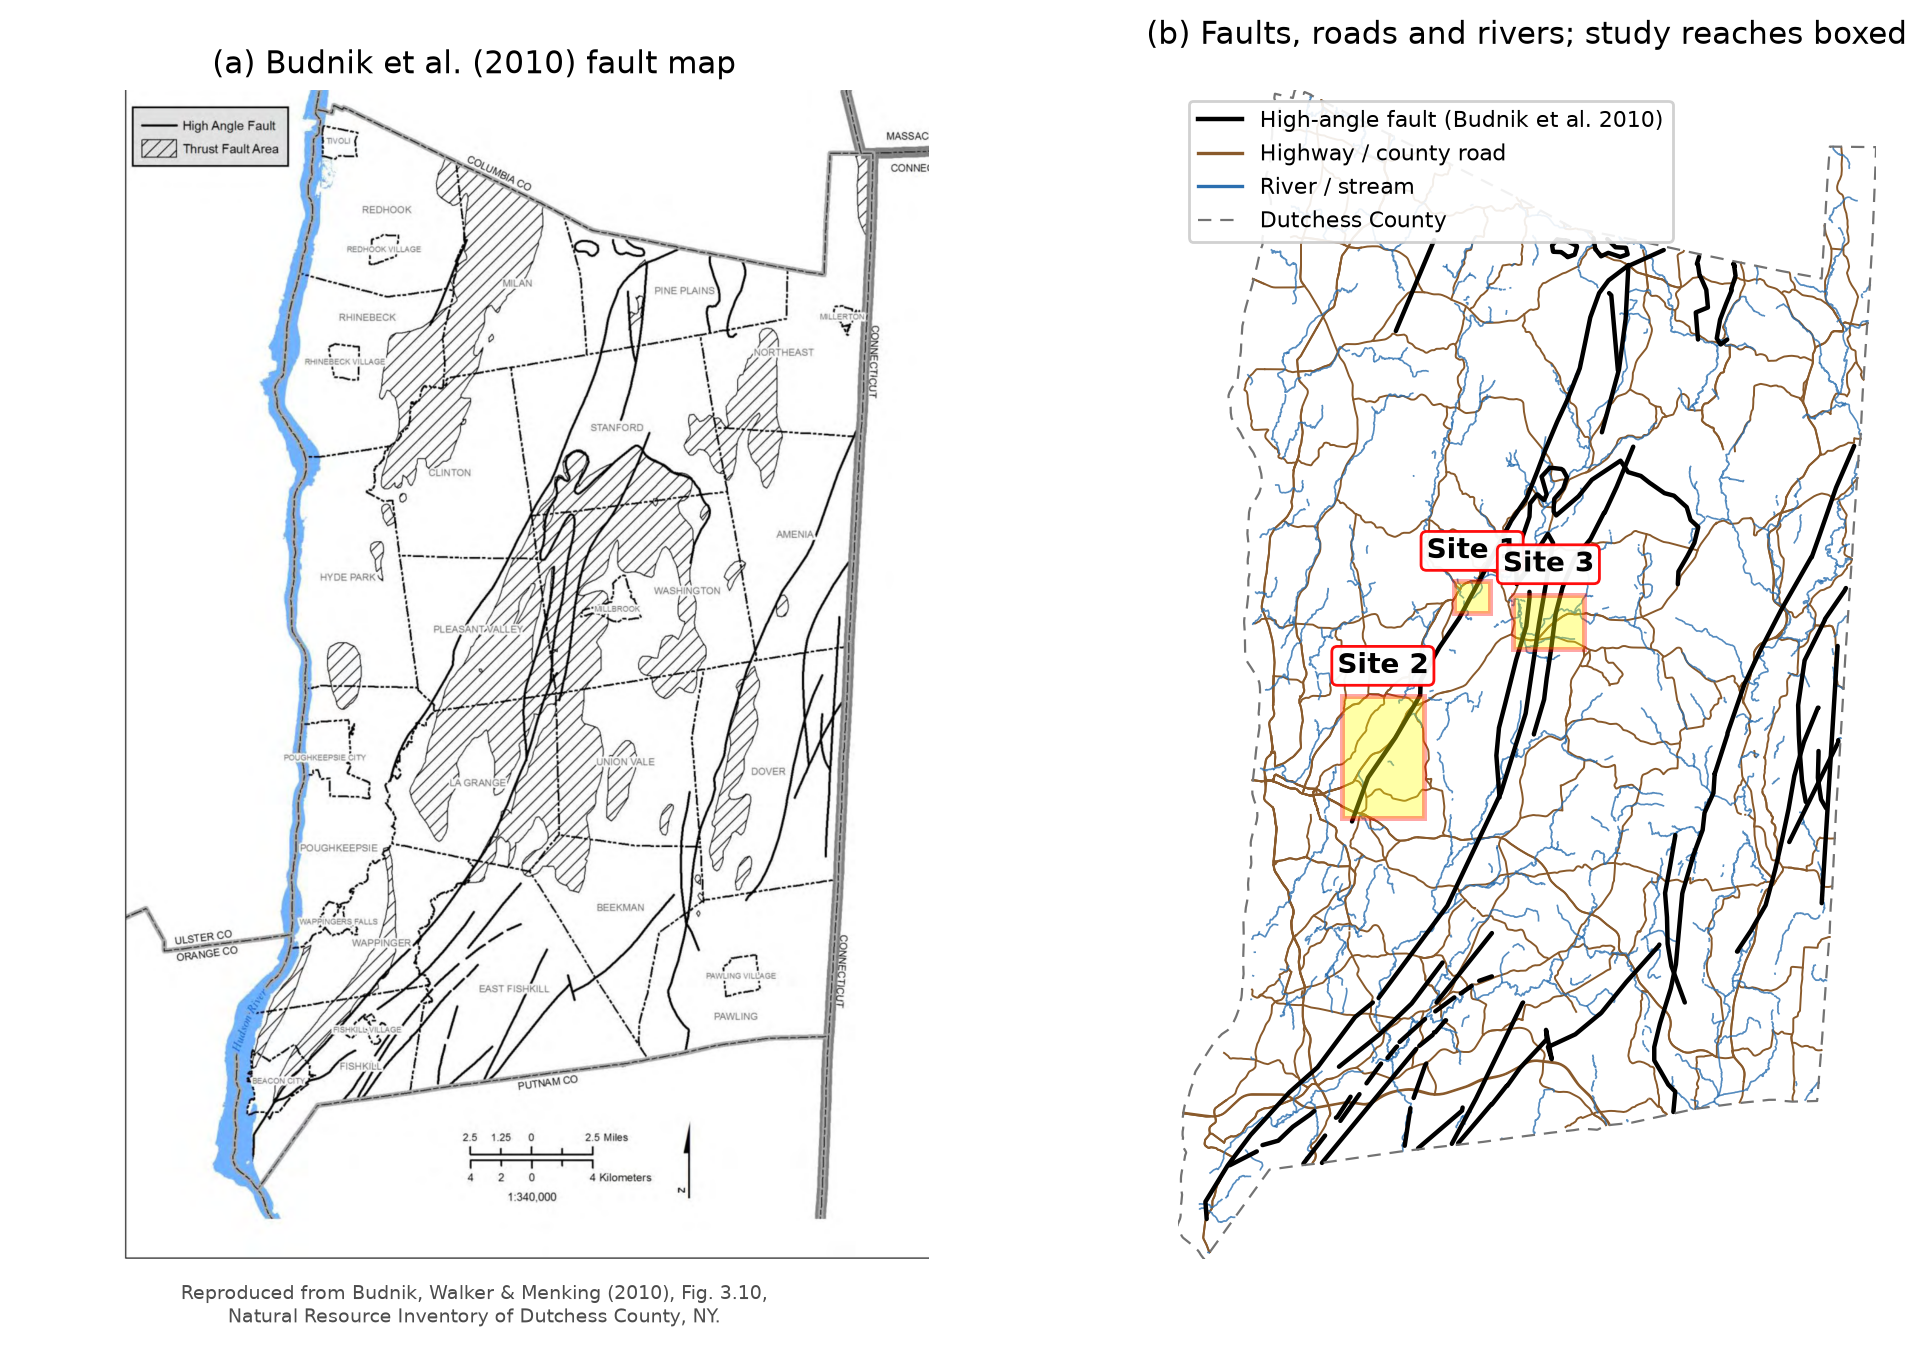
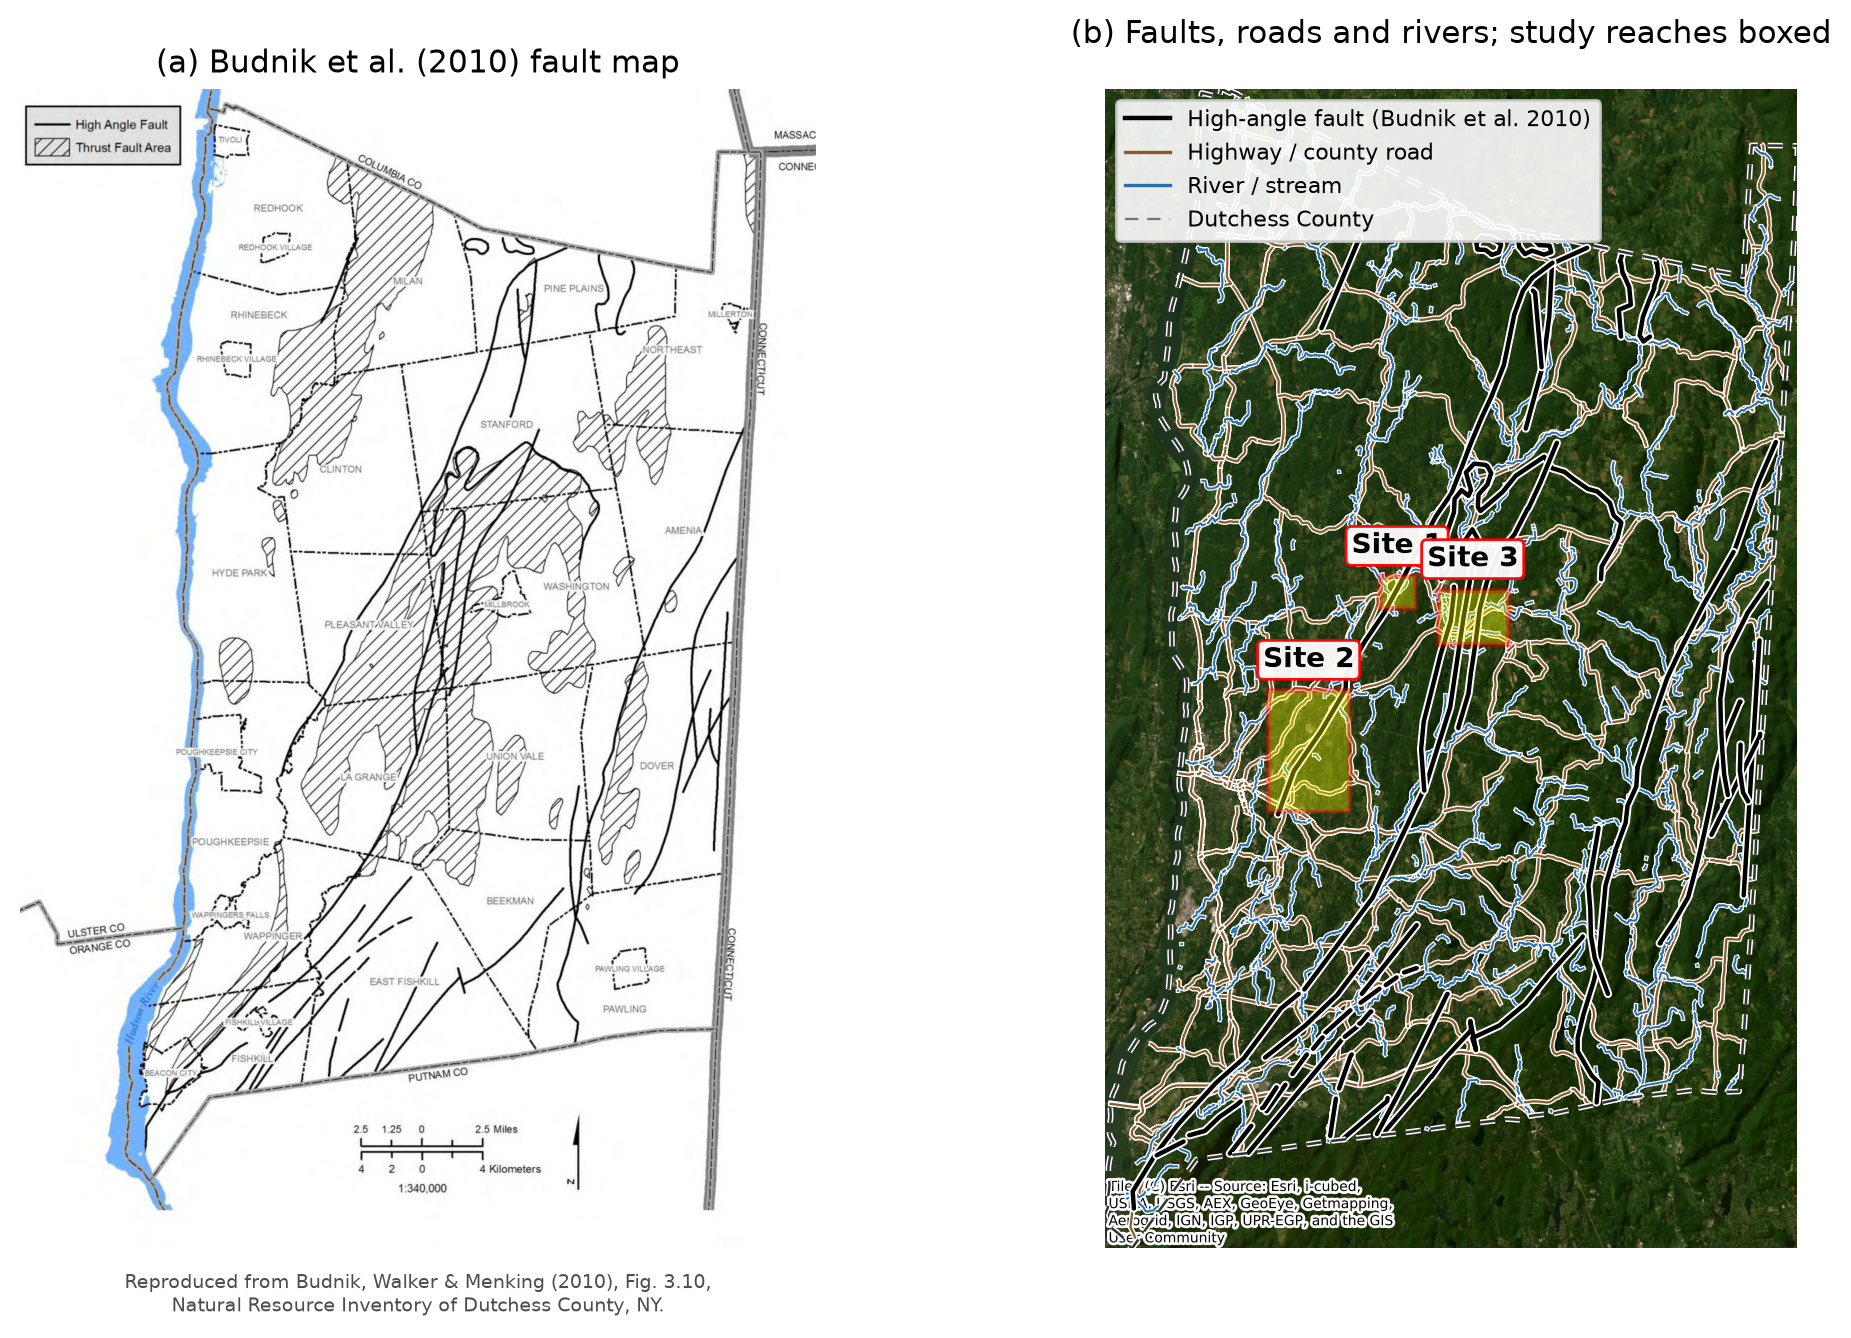
Figure 1: landscape basemap under panel (b); trim panel (a) frame lines
- Panel (b): add Esri World Imagery (satellite) as a landscape-only backdrop
  (no roads, no labels) under the vector layers; white halos on roads, rivers,
  faults, and the county outline keep them legible over the imagery
- Panel (a): re-crop the Budnik figure to remove the left vertical and bottom
  horizontal page-frame rules left over from the PDF clip

diff --git a/src/maps.py b/src/maps.py
@@ -498,34 +498,43 @@ def draw_overview(df, zframes):
              transform=axL.transAxes, ha="center", va="top", fontsize=7,
              color="0.3")
 
-    # -- (b) clean vector map: roads + rivers + faults + county outline + sites --
+    # -- (b) landscape basemap + roads + rivers + faults + outline + sites --
+    import matplotlib.patheffects as pe
     axR.set_xlim(left, right)
     axR.set_ylim(bottom, top)
     axR.set_aspect("equal")
     axR.set_axis_off()
-    axR.set_facecolor("white")
+    # landscape only (satellite imagery -- no roads, no labels)
+    add_basemap_safe(axR, source=cx.providers.Esri.WorldImagery)
+
+    def halo(w):  # white casing so vectors stay legible over the imagery
+        return [pe.withStroke(linewidth=w, foreground="white")]
 
     # highways and county roads (brown)
     for seg in load_roads():
         rx, ry = zip(*[merc(lo, la) for lo, la in seg])
-        axR.plot(rx, ry, color="#8a5a2b", lw=0.7, zorder=3)
+        axR.plot(rx, ry, color="#8a5a2b", lw=0.8, zorder=3,
+                 path_effects=halo(1.8))
 
     # rivers / streams (blue)
     for seg in load_rivers():
         rx, ry = zip(*[merc(lo, la) for lo, la in seg])
-        axR.plot(rx, ry, color="#2b6fb0", lw=0.6, alpha=0.8, zorder=3)
+        axR.plot(rx, ry, color="#2b6fb0", lw=0.7, zorder=3,
+                 path_effects=halo(1.6))
 
     # county outline (dashed, lighter)
     for ring in load_county_outline():
         ox, oy = zip(*[merc(lo, la) for lo, la in ring])
-        axR.plot(ox, oy, color="0.45", lw=0.8, ls=(0, (6, 4)), zorder=6)
+        axR.plot(ox, oy, color="0.2", lw=0.9, ls=(0, (6, 4)), zorder=6,
+                 path_effects=halo(2.0))
 
     # faults (thin, black)
     if vec:
         for i, (fid, coords) in enumerate(vec.items()):
             fx, fy = zip(*[merc(lo, la) for lo, la in coords])
             axR.plot(fx, fy, color="black", lw=1.6, solid_capstyle="round",
-                     zorder=5, label="High-angle fault (Budnik et al. 2010)"
+                     zorder=5, path_effects=halo(3.0),
+                     label="High-angle fault (Budnik et al. 2010)"
                      if i == 0 else None)
         faultsrc = "traced"
     elif ras is not None:
